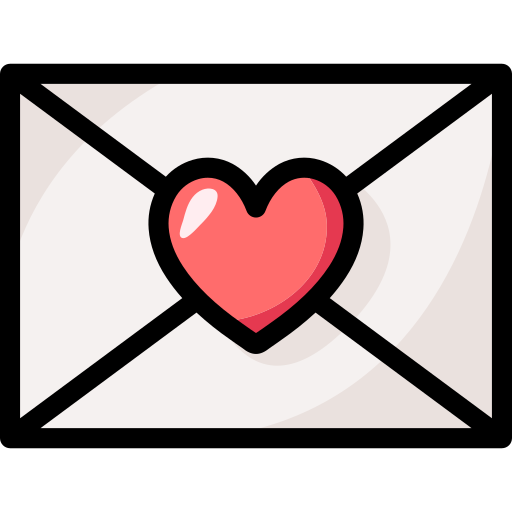
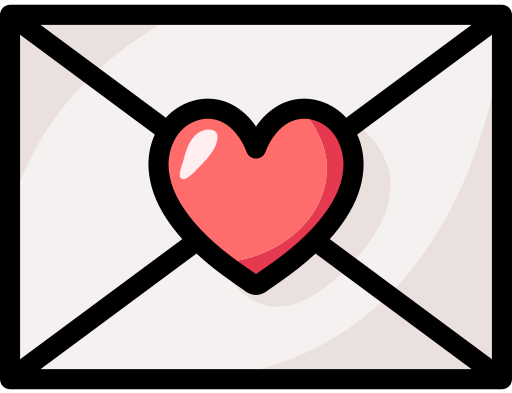
ajuste imagenes

diff --git a/index.html b/index.html
@@ -54,8 +54,7 @@
     }
 
     .card img {
-      width: 90px;
-      height: 90px;
+      width: 120px;
       object-fit: contain;
       margin-bottom: 15px;
     }
